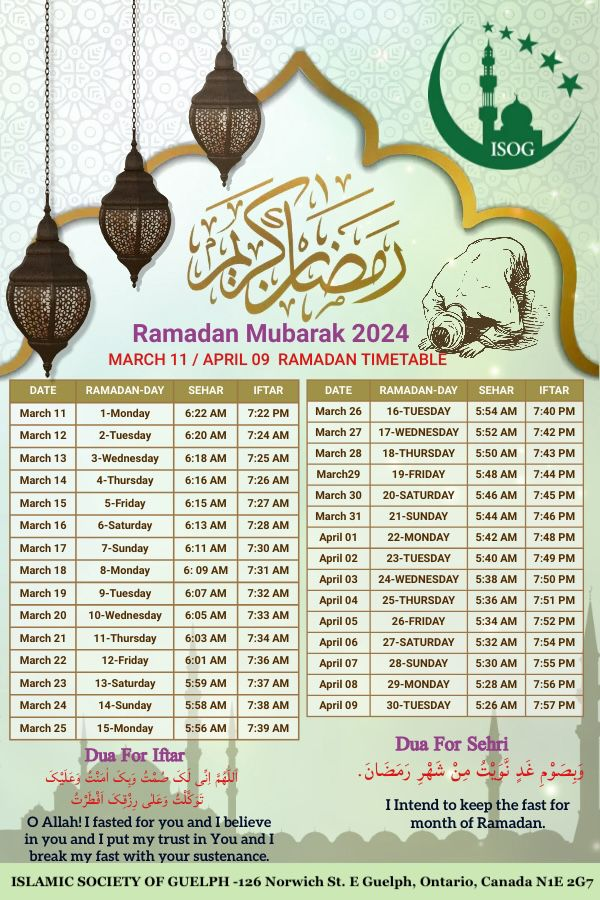
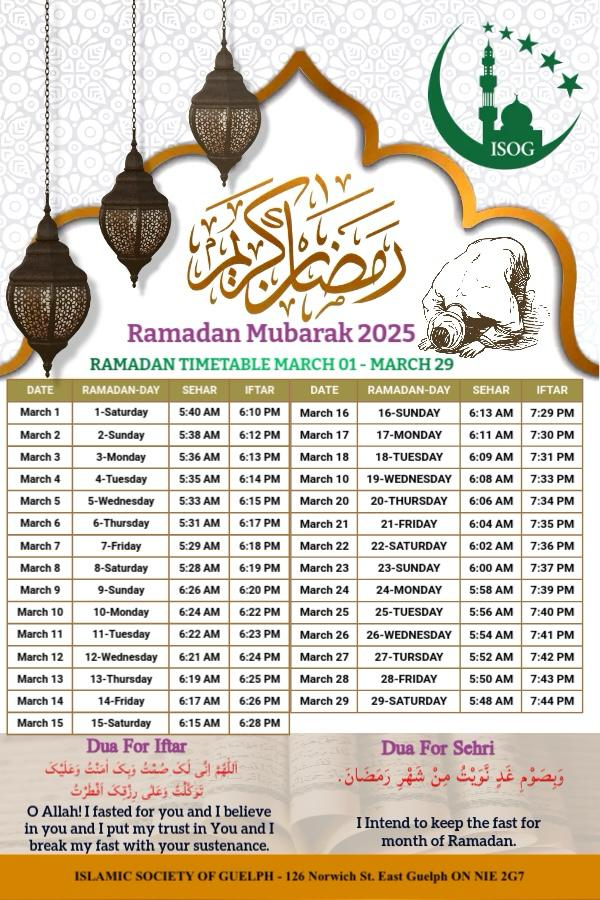
Added Ramadan Calendar 25

diff --git a/src/pages/Home.jsx b/src/pages/Home.jsx
@@ -259,11 +259,23 @@ const getAnnouncements = async() =>{
 
     </div>
 
+    <div className='ramadanCalendarContainer'>
+
+      <div>2025 Ramadan Calendar </div>
+      <img src={ramadanCalendar} />
+    </div>
+
 
       <div className='ramadanContainer'>
         <div>FASTING TIMES IN GUELPH</div>
         <div>{currentHijriYear} Hijri {currentHijriDay} {currentHijriMonth}</div>
         <div>{moment().format('dddd MMMM D YYYY')}</div>
+
+        <div className='counterContainer'>
+        <div>Ramadan Mubarak!</div>
+        
+    </div>
+
 
 
         <div className='fastingContainer'>
